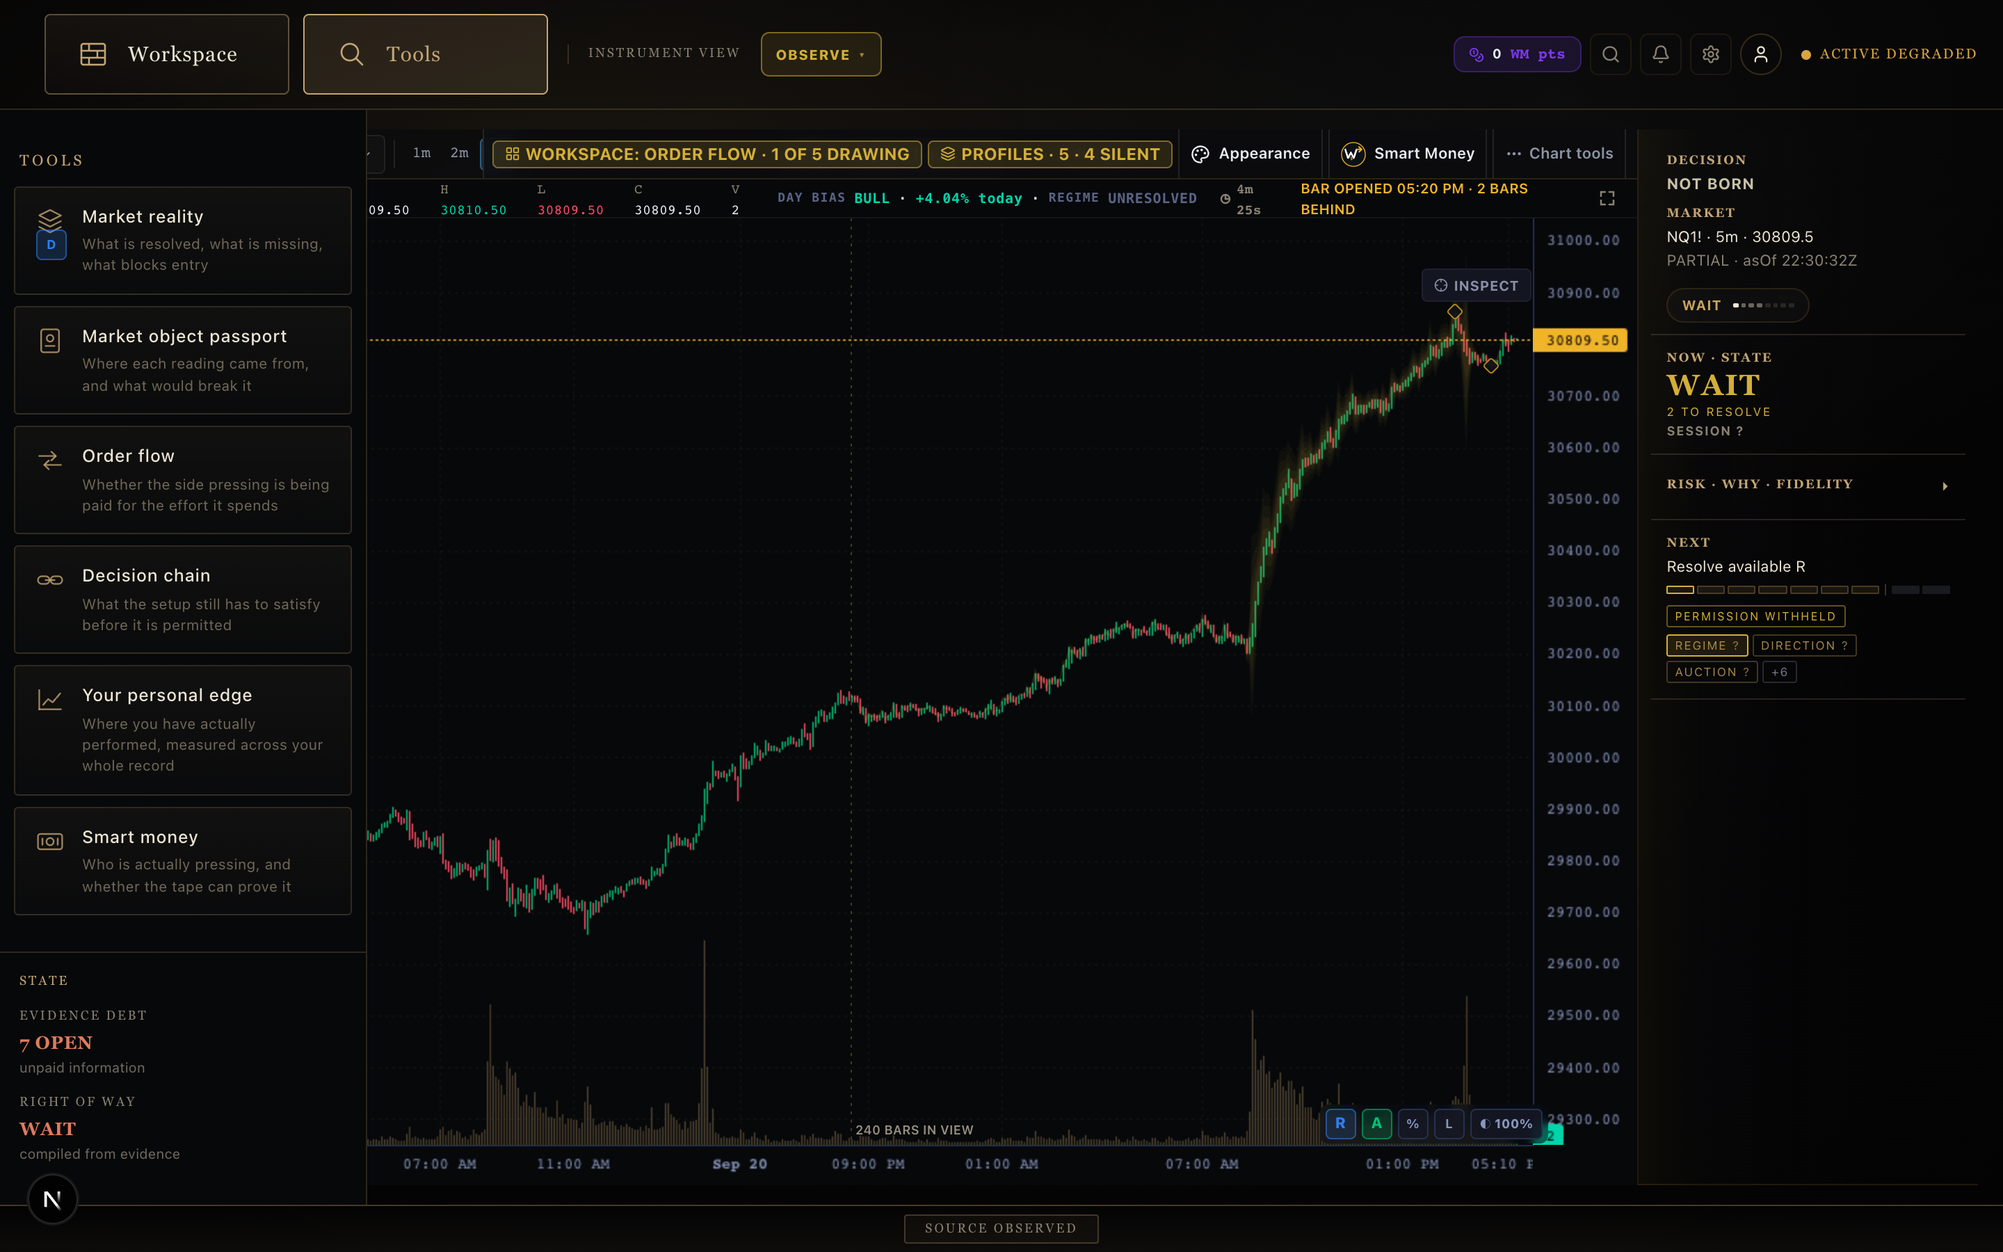
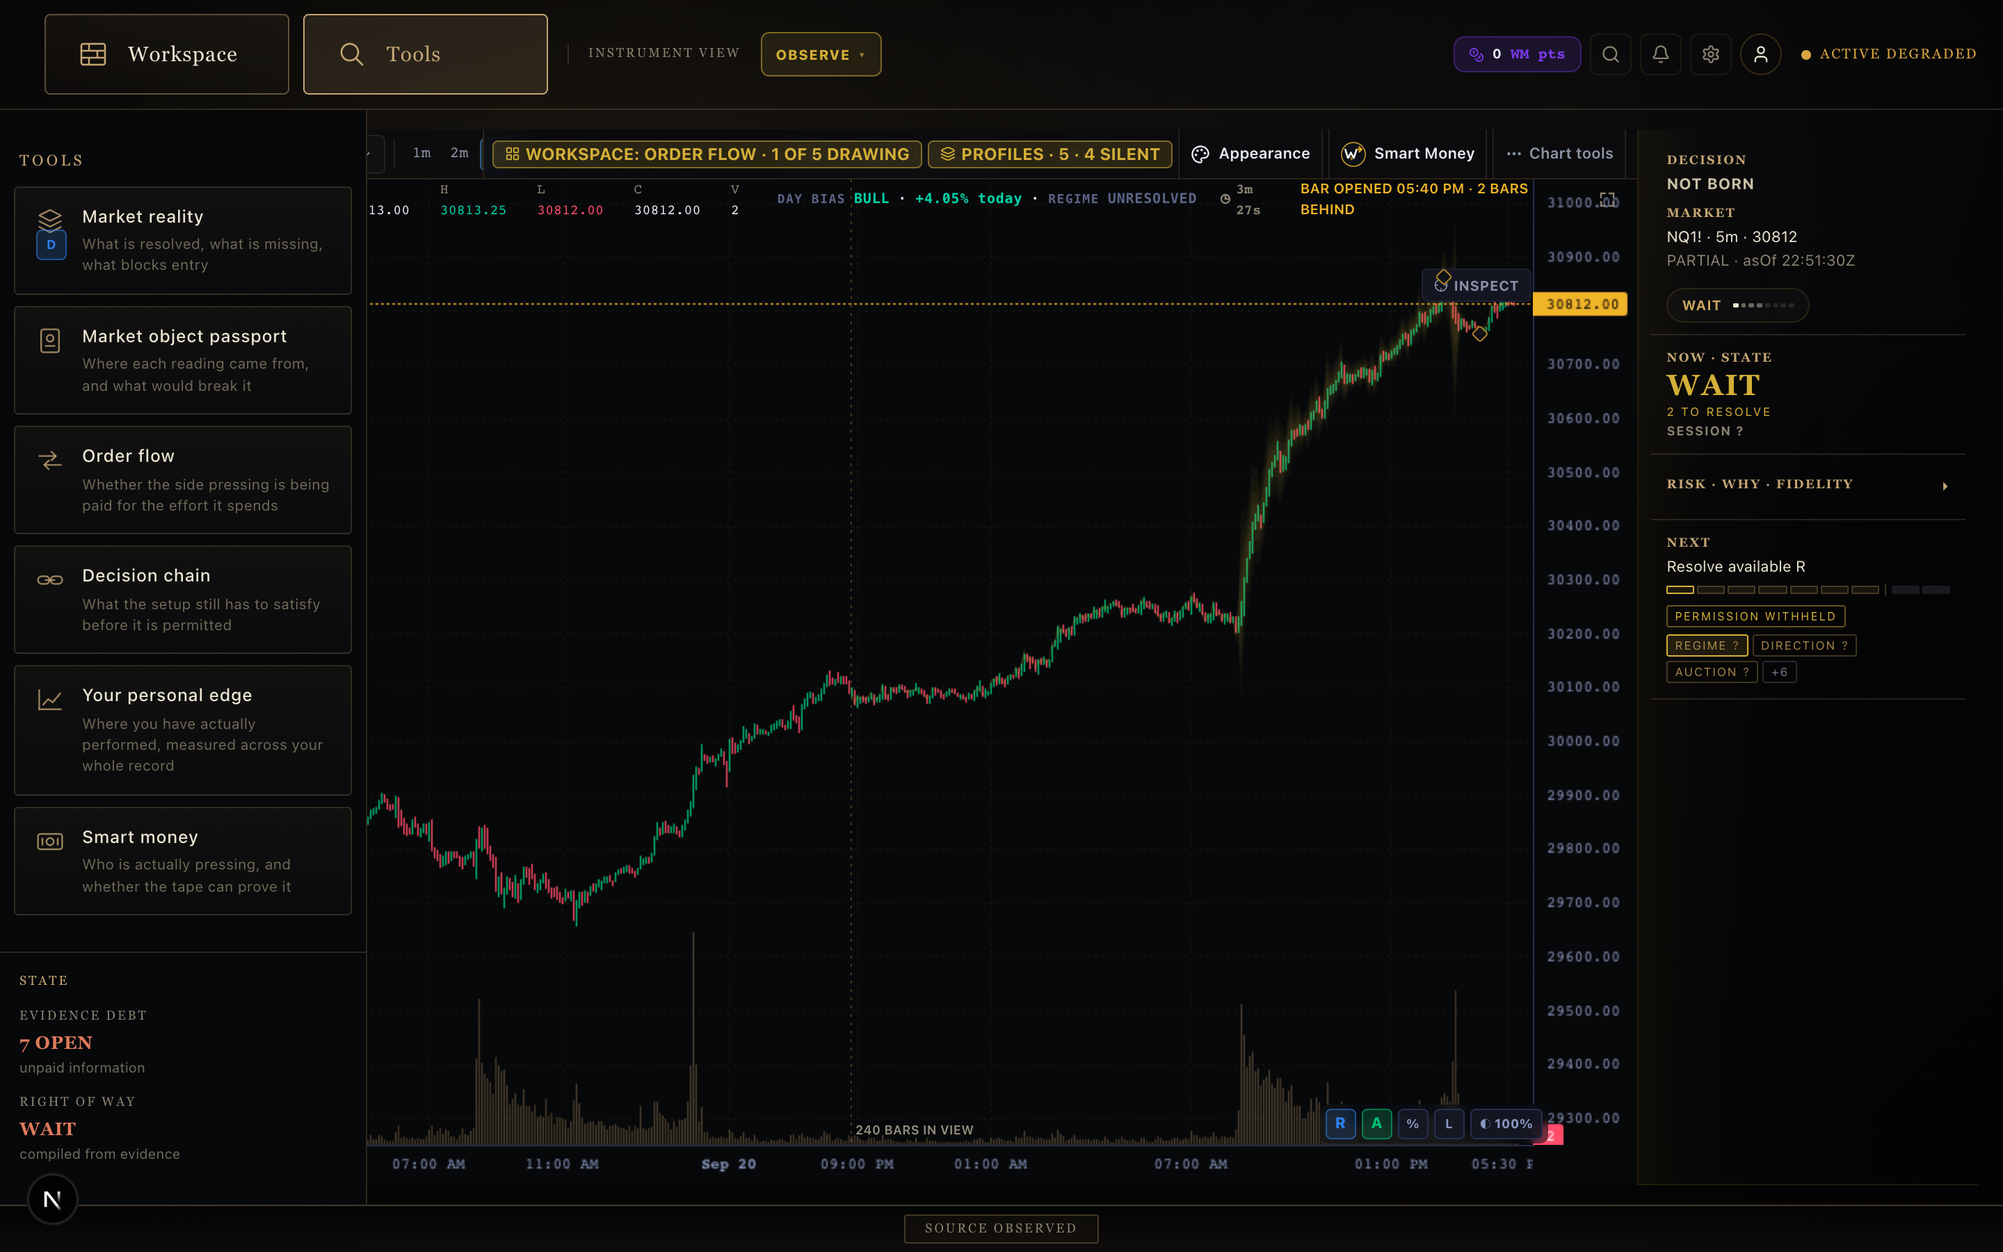
feat(charts): the price legend moves onto the glass, and the corner gets an order
LOOKED AT, NOT INFERRED. Canon frame F24 "Workspace Equipment Over Live
Chart" beside a 1440x900 shot of this build. F24 prints the symbol and the
O/H/L/C line INSIDE the candle pane, over the field's own top-left headroom.
It is not a band. This build spent a full-width 28px LAYOUT row on the same
words, directly above the field — on a row whose text is the MARKET's, the
one thing in the chrome stack that was never chrome.

MEASURED, scratchpad/desktop-chrome-stack.mjs at 1440x900:
  chrome above the candles  157px -> 129px   (16.3% -> 14.3% of the glass)
  candle field              719px -> 723px
F24 spends ~9.5% of its frame on chrome. Two July-shell bands remain above
the field; they are the next cuts.

The strip's own §COMPOSITION CONTRACT note already argued half of this — "NOW
belongs to MARKET ... embedded into the market environment rather than
another dashboard card" — and made the fill transparent so it could not seam
against the field. A strip that inherits the field's colour but still eats a
row of the field's HEIGHT is only half-embedded. Same sentence, now applied
to geometry. The bottom hairline goes with the row: a 1px rule drawn across
live candles reads as a chart annotation the trader did not place.

POINTER-TRANSPARENT. The pane underneath owns the crosshair, drawing and
context menu. An overlay that ate those events would trade 28px of chart for
a 28px dead strip — a worse defect than the one being fixed. The band is
[…]

diff --git a/src/components/chart/MainChart.tsx b/src/components/chart/MainChart.tsx
@@ -106,6 +106,48 @@ import { STRUCTURE_DEFAULT_LOOKBACK } from "@/lib/marketData/viewModels/selectMa
  */
 const CHART_SWING_LOOKBACK = STRUCTURE_DEFAULT_LOOKBACK;
 const LIQUIDITY_SWEEP_LOOKBACK = 4;
+
+/**
+ * THE PRICE LEGEND'S RESERVED HEADROOM, WITH ONE OWNER.
+ *
+ * Canon frame F24 prints the symbol and the O/H/L/C line INSIDE the candle
+ * pane rather than in a chrome band above it. On 2026-09-21 this build
+ * followed, and the legend became a 28px absolute overlay pinned to the pane's
+ * top edge.
+ *
+ * That corner was NOT empty. Two things had held `top: 8` since the era when
+ * the legend lived in a row of its own and the pane's top-left was free real
+ * estate: the data-window `D` toggle (a DOM button) and the absorption-anatomy
+ * BASIS caption (drawn on canvas). LOOKED AT, NOT INFERRED —
+ * scratchpad/top-clip.png at 1440x900 showed both printing underneath the
+ * "30815.50" glyphs.
+ *
+ * They live in different rendering systems and cannot see each other, so left
+ * as two literal `8`s they would agree only by luck, and the next person to
+ * change the legend's height would silently re-create the collision in
+ * whichever one they didn't think of. One constant, two readers: the height
+ * the legend actually reserves, and the inset both had all along.
+ */
+const PRICE_LEGEND_OVERLAY_H = 28;
+const PANE_TOP_LEFT_INSET = 8;
+/** First free pixel below the price legend, for anything else in that corner. */
+const BELOW_PRICE_LEGEND = PRICE_LEGEND_OVERLAY_H + PANE_TOP_LEFT_INSET;
+
+/**
+ * …AND THE ROW BELOW THE LEGEND HAS AN ORDER, NOT A PILE-UP.
+ *
+ * Moving both displaced objects down by the same amount fixed their collision
+ * with the legend and created a new one with each other — LOOKED AT, 2026-09-21,
+ * second `top-clip.png`: the `D` glyph and the word "EFFORT" printed over one
+ * another. They are a DOM button and a canvas caption, so no layout engine will
+ * ever space them; the only way they can share a row is if the second one is
+ * told how wide the first one is.
+ *
+ * Left-to-right: the `D` toggle, then the BASIS caption.
+ */
+const DATA_WINDOW_TOGGLE_PX = 22;
+const BASIS_CAPTION_X =
+  PANE_TOP_LEFT_INSET + DATA_WINDOW_TOGGLE_PX + PANE_TOP_LEFT_INSET;
 import { dataWindowBarScope } from "@/lib/chart/dataWindowBarScope";
 import { chartBarCountdown } from "@/lib/chart/chartBarCountdown";
 import { candleCountdownUsesPillShell } from "@/lib/chart/candleCountdownMaterial";
@@ -7333,7 +7375,11 @@ export function MainChart({ symbol, timeframe, footprintType, footprintEnabled =
             const basisTxt = BASIS_LABEL[anatomy.basis];
             ctx.font = "600 9px ui-sans-serif, system-ui, sans-serif";
             const bwTxt = ctx.measureText(basisTxt).width;
-            const bx = 8, by = 8;
+            // `by` CLEARS THE PRICE LEGEND. See PRICE_LEGEND_OVERLAY_H: this
+            // caption held `by = 8` from before the legend moved into the pane,
+            // and was printing under the headline price. Derived, not re-typed,
+            // so it tracks the legend if the legend's height ever changes.
+            const bx = BASIS_CAPTION_X, by = BELOW_PRICE_LEGEND;
             const desktopBasisChrome = W >= 960;
             if (desktopBasisChrome) {
               // FL-06 carries basis as quiet chart provenance, not a second
@@ -9047,9 +9093,51 @@ export function MainChart({ symbol, timeframe, footprintType, footprintEnabled =
           of exactly this occlusion — MainChart was never in its FRAME list, so
           the largest surface kept the defect. Transparent here means the strip
           inherits the one canonical fill and can never drift from it again. */}
+      {/* ── Chart + canvas overlay ───────────────────────── */}
+      <div style={{ flex:1, position:"relative", minHeight:0 }} onContextMenu={handleContextMenu}
+        onPointerMove={handleOverlayPointerMove}
+        onPointerDown={handleCursorSelectDown}
+        onPointerUp={handleCursorSelectUp}
+        onPointerLeave={() => { bubbleHoverRef.current = null; setBubbleTip(null); cursorDownRef.current = null; }}>
+
+      {/* ── NOW RIDES OVER THE CANDLES, IT DOES NOT PUSH THEM DOWN ──────
+          LOOKED AT, NOT INFERRED. 2026-09-21, canon frame F24 beside a 1440
+          shot of this room: F24 prints "TSLA · Tesla, Inc. · 1D · NASDAQ" and
+          the O/H/L/C line INSIDE the candle pane, over the chart's own top-left
+          headroom. It is not a band. The market field starts at the top of the
+          frame and the price legend floats on it.
+
+          This build spent a full-width 28px LAYOUT row on the same words,
+          directly above the field. MEASURED at 1440x900 by
+          scratchpad/desktop-chrome-stack.mjs: 28px of the 157px of chrome
+          above the candles, on a row whose own text is the market's — the
+          one thing in the stack that was never chrome in the first place.
+
+          The canon note 40 lines up already argued half of this: §COMPOSITION
+          CONTRACT says "NOW belongs to MARKET ... embedded into the market
+          environment rather than another dashboard card", and that fix made
+          the strip's FILL transparent so it could not seam against the field.
+          A strip that inherits the field's colour but still consumes a row of
+          the field's height is only half-embedded. This finishes it — same
+          contract, same sentence, now applied to geometry instead of paint.
+
+          POINTER-TRANSPARENT BY DEFAULT. The pane underneath owns the
+          crosshair, drawing and context menu (onPointerMove / onPointerDown /
+          onContextMenu, right here on the parent). An overlay that ate those
+          events would trade 28px of chart for a 28px dead strip where the
+          crosshair stops — a worse defect than the one being fixed. So the
+          band is `pointerEvents: "none"` and the single interactive thing
+          inside it, the fullscreen button, re-arms itself. Audited: that
+          button is the ONLY control in this subtree.
+
+          The bottom rule is gone with the row. A 1px border drawn across live
+          candles reads as a chart annotation the trader did not place. */}
       <div
-        style={{ height: 28, flexShrink: 0, background: "transparent" }}
-        className="flex items-center gap-4 px-3 border-b border-wm-border/50"
+        style={{
+          position: "absolute", top: 0, left: 0, right: 0, height: PRICE_LEGEND_OVERLAY_H,
+          zIndex: 20, pointerEvents: "none", background: "transparent",
+        }}
+        className="flex items-center gap-4 px-3"
       >
         {/* Price + change + source provenance (WM-CHART-P0-05) */}
         <div className="flex items-baseline gap-2">
@@ -9380,6 +9468,12 @@ export function MainChart({ symbol, timeframe, footprintType, footprintEnabled =
             onClick={toggleFullscreen}
             aria-label={isFullscreen ? "Exit fullscreen" : "Fullscreen"}
             title={isFullscreen ? "Exit fullscreen" : "Fullscreen"}
+            /* RE-ARMED. The legend band above it is `pointerEvents: "none"` so
+               the crosshair, drawing and context menu keep reaching the candle
+               pane underneath. This button is the ONLY control in that subtree
+               (audited, same session), so it opts itself back in rather than
+               the band opting everything in. */
+            style={{ pointerEvents: "auto" }}
             className="flex items-center justify-center min-w-11 min-h-11 p-3 -m-3 rounded hover:bg-wm-surface transition-colors text-wm-text-dim hover:text-wm-text"
           >
             {isFullscreen ? (
@@ -9395,12 +9489,6 @@ export function MainChart({ symbol, timeframe, footprintType, footprintEnabled =
         </div>
       </div>
 
-      {/* ── Chart + canvas overlay ───────────────────────── */}
-      <div style={{ flex:1, position:"relative", minHeight:0 }} onContextMenu={handleContextMenu}
-        onPointerMove={handleOverlayPointerMove}
-        onPointerDown={handleCursorSelectDown}
-        onPointerUp={handleCursorSelectUp}
-        onPointerLeave={() => { bubbleHoverRef.current = null; setBubbleTip(null); cursorDownRef.current = null; }}>
         <div ref={containerRef} style={{ width:"100%", height:"100%" }} />
 
         {/* H-101 — WAIT belongs to a selected object, at that object's real
@@ -10158,12 +10246,27 @@ export function MainChart({ symbol, timeframe, footprintType, footprintEnabled =
           );
         })()}
 
-        {/* Toggle data window button */}
+        {/* Toggle data window button
+
+            MOVED DOWN 28px, NOT REMOVED. LOOKED AT, NOT INFERRED: 2026-09-21,
+            scratchpad/top-clip.png beside canon frame F24. This button held
+            `top: 8` from the era when the pane's top-left was empty because the
+            price legend lived in a chrome ROW above the field. The legend is
+            now an overlay in that exact corner — F24's arrangement — so the
+            two literally printed on top of each other, the 22px chip sitting
+            under the "30815.50" glyphs.
+
+            `BELOW_PRICE_LEGEND` is the legend's height plus the 8px inset this
+            button always had, so it keeps its original margin from the thing
+            above it instead of inventing a new number — and it is DERIVED, so
+            it cannot drift from the legend the way a literal `36` would.
+            Capability is untouched: same control, same handler, same title,
+            one corner down. */}
         <button
           onClick={() => setDataWindowOpen(v => !v)}
           title={dataWindowOpen ? "Hide data window" : "Show data window"}
           style={{
-            position: "absolute", top: 8, left: 8, zIndex: 70,
+            position: "absolute", top: BELOW_PRICE_LEGEND, left: PANE_TOP_LEFT_INSET, zIndex: 70,
             width: 22, height: 22, borderRadius: 4, fontSize: 9, fontWeight: 700, cursor: "pointer",
             background: dataWindowOpen ? "rgba(47,128,237,0.2)" : "rgba(20,24,36,0.85)",
             border: `1px solid ${dataWindowOpen ? "rgba(47,128,237,0.5)" : "#263050"}`,

diff --git a/src/lib/experience/marketFieldMaterialOwner.test.ts b/src/lib/experience/marketFieldMaterialOwner.test.ts
@@ -219,12 +219,83 @@ describe("the market field has ONE material owner", () => {
   });
 
   it("THE DEFECT: the OHLCV strip carries no fill of its own", () => {
-    // Targeted at the exact element, so a future refactor that reintroduces
-    // the slab under a different literal still turns this red.
+    // RE-AIMED 2026-09-21, NOT RELAXED. The law this test enforces is
+    // unchanged — the price legend must not paint a second material over the
+    // market field. What changed is the legend's SHAPE: it was a layout row
+    // (`height: 28, flexShrink: 0`) sitting above the field; canon frame F24
+    // prints the same words INSIDE the candle pane, so it is now an absolute
+    // overlay in the pane's top-left headroom. The old regex was keyed to
+    // `flexShrink: 0`, a property that only exists on a flex CHILD, so it
+    // could not survive the very move the canon asked for.
+    //
+    // The replacement is STRICTLY STRONGER. It still pins `background:
+    // "transparent"`, and it additionally pins the two properties that make
+    // the overlay legitimate rather than a regression:
+    //   • `position: "absolute"` — it must COVER field, never SHRINK it. A
+    //     refactor that drops this silently steals 28px of candles back.
+    //   • `pointerEvents: "none"` — the pane underneath owns the crosshair,
+    //     drawing and context menu. An opaque overlay would trade 28px of
+    //     chart for a 28px dead strip where the crosshair stops.
+    //
+    // ANCHORED BY THE ELEMENT'S OWN className, not by a loose property
+    // search. A mutation run while writing this test (2026-09-21) proved the
+    // unanchored form was worthless: reverting the overlay to a layout row
+    // still "passed", because the regex silently matched a DIFFERENT absolute
+    // block further down the file. `flex items-center gap-4 px-3` occurs
+    // exactly once in MainChart, so this reads the legend or nothing.
     const src = CODE(MAIN_CHART);
-    const strip = src.match(/\{\s*height:\s*28,\s*flexShrink:\s*0,\s*background:\s*([^}]*)\}/);
-    expect(strip, "the 28px OHLCV strip style object is missing").not.toBeNull();
-    expect(strip![1].trim().replace(/,$/, "")).toBe('"transparent"');
+    const strip = src.match(
+      /style=\{\{([\s\S]{0,400}?)\}\}\s*className="flex items-center gap-4 px-3"/,
+    );
+    expect(
+      strip,
+      "the 28px OHLCV legend overlay style object is missing — if it went " +
+        "back to being a layout row, the market field just lost 28px again",
+    ).not.toBeNull();
+    expect(
+      strip![1],
+      "the legend overlay is no longer absolutely positioned — an absolute " +
+        "box COVERS field, a layout box SHRINKS it",
+    ).toMatch(/position:\s*"absolute"/);
+    // THE NAME, NOT THE NUMBER — the same law this whole suite exists to
+    // enforce, applied to a height instead of a colour. Two other things in
+    // the pane's top-left corner (the data-window `D` toggle and the
+    // absorption BASIS caption, in two different rendering systems) have to
+    // clear this legend. While all three spelled `8`/`28` as literals they
+    // agreed only by luck. They now derive from PRICE_LEGEND_OVERLAY_H, so a
+    // future change to the legend's height moves all three together.
+    expect(
+      strip![1],
+      "the legend overlay restated its height as a literal; the `D` toggle " +
+        "and the canvas BASIS caption position themselves off " +
+        "PRICE_LEGEND_OVERLAY_H and will now collide with it",
+    ).toMatch(/height:\s*PRICE_LEGEND_OVERLAY_H\b/);
+    expect(
+      CODE(MAIN_CHART),
+      "PRICE_LEGEND_OVERLAY_H lost its definition",
+    ).toMatch(/const PRICE_LEGEND_OVERLAY_H = 28;/);
+    // Both dependants must still DERIVE their offset, never re-type it.
+    expect(
+      CODE(MAIN_CHART),
+      "the data-window `D` toggle no longer clears the price legend",
+    ).toMatch(/position:\s*"absolute",\s*top:\s*BELOW_PRICE_LEGEND/);
+    expect(
+      CODE(MAIN_CHART),
+      "the absorption BASIS caption no longer clears the price legend",
+    ).toMatch(/const bx = BASIS_CAPTION_X, by = BELOW_PRICE_LEGEND;/);
+    expect(strip![1], "the legend is painting its own material again").toMatch(
+      /background:\s*"transparent"/,
+    );
+    expect(
+      strip![1],
+      "the legend overlay must not be a layout child — `flexShrink` means it " +
+        "is consuming the field's height instead of floating on it",
+    ).not.toMatch(/flexShrink/);
+    expect(
+      strip![1],
+      "the legend overlay is eating pointer events; the crosshair, drawing " +
+        "and context menu all live on the pane underneath it",
+    ).toMatch(/pointerEvents:\s*"none"/);
   });
 
   it("the canonical owner still paints the field — we removed a duplicate, not the fill", () => {
@@ -239,12 +310,33 @@ describe("the market field has ONE material owner", () => {
     );
   });
 
-  it("the strip keeps its structural delimiter — a fill was removed, not the structure", () => {
-    // OVER-CORRECTION GUARD. Canon calls for brass structural hairlines, not
-    // for the removal of all structure. Transparency is the cure; erasing the
-    // boundary between controls and candles is not.
-    expect(CODE(MAIN_CHART)).toMatch(
-      /height:\s*28,\s*flexShrink:\s*0,\s*background:\s*"transparent"[\s\S]{0,160}?border-b border-wm-border\/50/,
+  it("the legend's one interactive control re-arms itself through the transparent overlay", () => {
+    // SUPERSEDES the old "structural delimiter" guard, and states WHY rather
+    // than quietly dropping it.
+    //
+    // The old guard demanded `border-b border-wm-border/50` under the strip.
+    // Its stated purpose was to keep "the boundary between controls and
+    // candles". That boundary was real while the strip was a chrome ROW with
+    // candles beneath it. Canon frame F24 has no such rule, because it has no
+    // such boundary: the legend is INSIDE the candle pane, floating on the
+    // field. A hairline across the field there would be drawing a border
+    // between the market and itself — the very seam the §COMPOSITION CONTRACT
+    // note in MainChart set out to remove. So the demand was retired on
+    // canon, deliberately, and is recorded here rather than deleted silently.
+    //
+    // What replaces it is the over-correction guard the NEW shape actually
+    // needs. Making the overlay `pointerEvents: "none"` is what keeps the
+    // crosshair alive underneath — but it also disarms every control inside
+    // it. There is exactly one (the fullscreen button, audited 2026-09-21),
+    // and it must opt back in. If someone adds a second control to this
+    // subtree and it silently does nothing, that is the bug this catches.
+    const src = CODE(MAIN_CHART);
+    expect(
+      src,
+      "the fullscreen button no longer re-arms pointer events; it is inside " +
+        'a `pointerEvents: "none"` overlay, so it is now unclickable',
+    ).toMatch(
+      /aria-label=\{isFullscreen \? "Exit fullscreen" : "Fullscreen"\}[\s\S]{0,900}?pointerEvents:\s*"auto"/,
     );
   });
 
